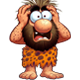
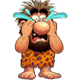
messages_windows

diff --git a/Scripts/maps.js b/Scripts/maps.js
@@ -29,7 +29,7 @@ const mapsImgs = {
     "Jungle4": "https://i.ibb.co/Jvvb5ZZ/Jungle-level-4.jpg",
     "Jungle5": "https://i.ibb.co/X5YmX6Q/Jungle-level-5.jpg",
 
-    "Laberinto1": "/assets/laberinto_01.jpg"
+    "Laberinto1": "./assets/laberinto_01.jpg"
 };
 
 // --- banners ---
@@ -48,13 +48,13 @@ imgBanPetFound.src = "./assets/banner-pet-found.png";
 
 // --- caveman status ---
 let imgStartG = new Image();
-imgStartG.src = "./assets/walk.png";
+imgStartG.src = "./assets/start-shell.png";
 let imgGameOver = new Image();
 imgGameOver.src = "./assets/game-over.png";
 let imgTime = new Image();
 imgTime.src = "./assets/time-up.png";
-let imgWinner = new Image();
-imgWinner.src = "./assets/levels-done.png";
+
+
 let imgInfo = new Image();
 imgInfo.src = "./assets/pet-info-dino.png";
 let imgFound = new Image();
@@ -64,9 +64,7 @@ imgFound.src = "./assets/pet-found-dino.png";
 // --- Walk ---
 let imgCavMan = new Image();
 imgCavMan.src = "./assets/walk.png";
-// --- Pet ---
-let imgPet = new Image();
-imgPet.src = "./assets/pet.png";
+
 
 // --- falling ---
 // --- fire ---
@@ -100,16 +98,19 @@ const iconLive = "./assets/icon-live.png";
 const inactiveBtnPad = "./assets/upDissabled.png";
 const activeBtnPad = "./assets/up.png";
 
+// --- conversation imgs ---
+const conversationImg = new Image();
+conversationImg.src = "./assets/conversation.png";
 
-// --- Valores en ventana de mensajes ---
+// --- Values in windows ---
 const messagesValues = [];
 
 const startG = {
     "id": "startG",
     "topBanner": imgBanCaveman,
     "middleImg": imgStartG,
+    "hisText": "Help Link to find his friendly pet Titan.",
     "bottomText": "Press Start To Play",
-    "hisText": "Link needs of your aid. His loyal companion, Titan, has gone missing, leaving Grunk distraught and in search of answers. Will you join Grunk on his quest to find Titan, navigating treacherous terrain and unknown dangers to reunite them once more? Your help could make all the difference in this primal tale of friendship and loyalty.",
 };
 const timeUp = {
     "id": "timeUp",
@@ -133,7 +134,7 @@ const stagePass = {
 };
 const dinoInfo = {
     "id": "dinoInfo",
-    "topBanner": "Hey Link, you can find Rocko at the end of the laberynth",
+    "topBanner": conversationImg,
     "middleImg": imgInfo,
     "bottomText": "Find Rocko",
     "btnText": "Let's Go",
@@ -142,7 +143,7 @@ const dinoFound = {
     "id": "dinoFound",
     "topBanner": imgBanPetFound,
     "middleImg": imgFound,
-    "bottomText": "You saved Rocko",
+    "bottomText": "You have found Rocko",
     "btnText": "Play Again"
 };
 

diff --git a/Styles/styles.css b/Styles/styles.css
@@ -203,9 +203,9 @@ canvas{
 }
 .clTop {
     width: 250px;
-    height: 50px;
+    height: auto;
 }
-.clTopSty {
+/* .clTopSty {
     box-sizing: border-box;
     background-color: var(--white);
     border: 2px solid var(--black);
@@ -213,7 +213,7 @@ canvas{
     padding: 2px 12px 2px 12px;
     color: var(--black);
     font-size: 17px;
-}
+} */
 .clMiddle {
     margin-top: 10px;
     width: auto;
@@ -221,40 +221,21 @@ canvas{
     filter: drop-shadow(0 1px 1px black);
 }
 .hisContainer {
-    position: relative;
-    text-align:left;
-    overflow-y: hidden;
-    /* background-color: rgba(0, 0, 0, 0.2); */
-    border: 1px solid rgb(165, 164, 164);
+    box-sizing: border-box;
+    text-align: center;
+    /* border: 1px solid rgb(165, 164, 164); */
+    border: 2px solid var(--darkOrange);
     border-radius: 10px;
-    margin-top: 5px;
+    margin-top: 10px;
     padding: 10px;
     width: 250px;
     height: 60px;
-   
+    background-color: rgb(230, 230, 230);
 }
 .clhis {
-    position: absolute;
-    color: var(--white);
-    font-weight: 700;
-    animation: his 15s linear infinite;
-}
-@keyframes his {
-    0% {
-        top: 6px;
-    }
-    10% {
-        top: 6px
-    }
-    88% {
-        top: -160px;
-    }
-    98% {
-        top: -160px;
-    }
-    100% {
-        top: 0px;
-    }
+    color: var(--black);
+    font-size: 16px;
+    font-weight: bold;
 }
 .contLevelsResult {
     filter: drop-shadow(0 1px 1px black);

diff --git a/Scripts/game.js b/Scripts/game.js
@@ -624,13 +624,7 @@ function statusWindowFnc(){
     const active = messagesValues.find(opc => opc["id"] == current);
     
     const bannerStatusWindow = document.createElement("div");
-
-    if(stageInfo){
-        bannerStatusWindow.classList.add("clTop", "clTopSty");
-    }else{
-        bannerStatusWindow.classList.add("clTop");
-    }
-
+    bannerStatusWindow.classList.add("clTop");
     bannerStatusWindow.append(active["topBanner"]);
 
     const imgStatusWindow = document.createElement("div");
